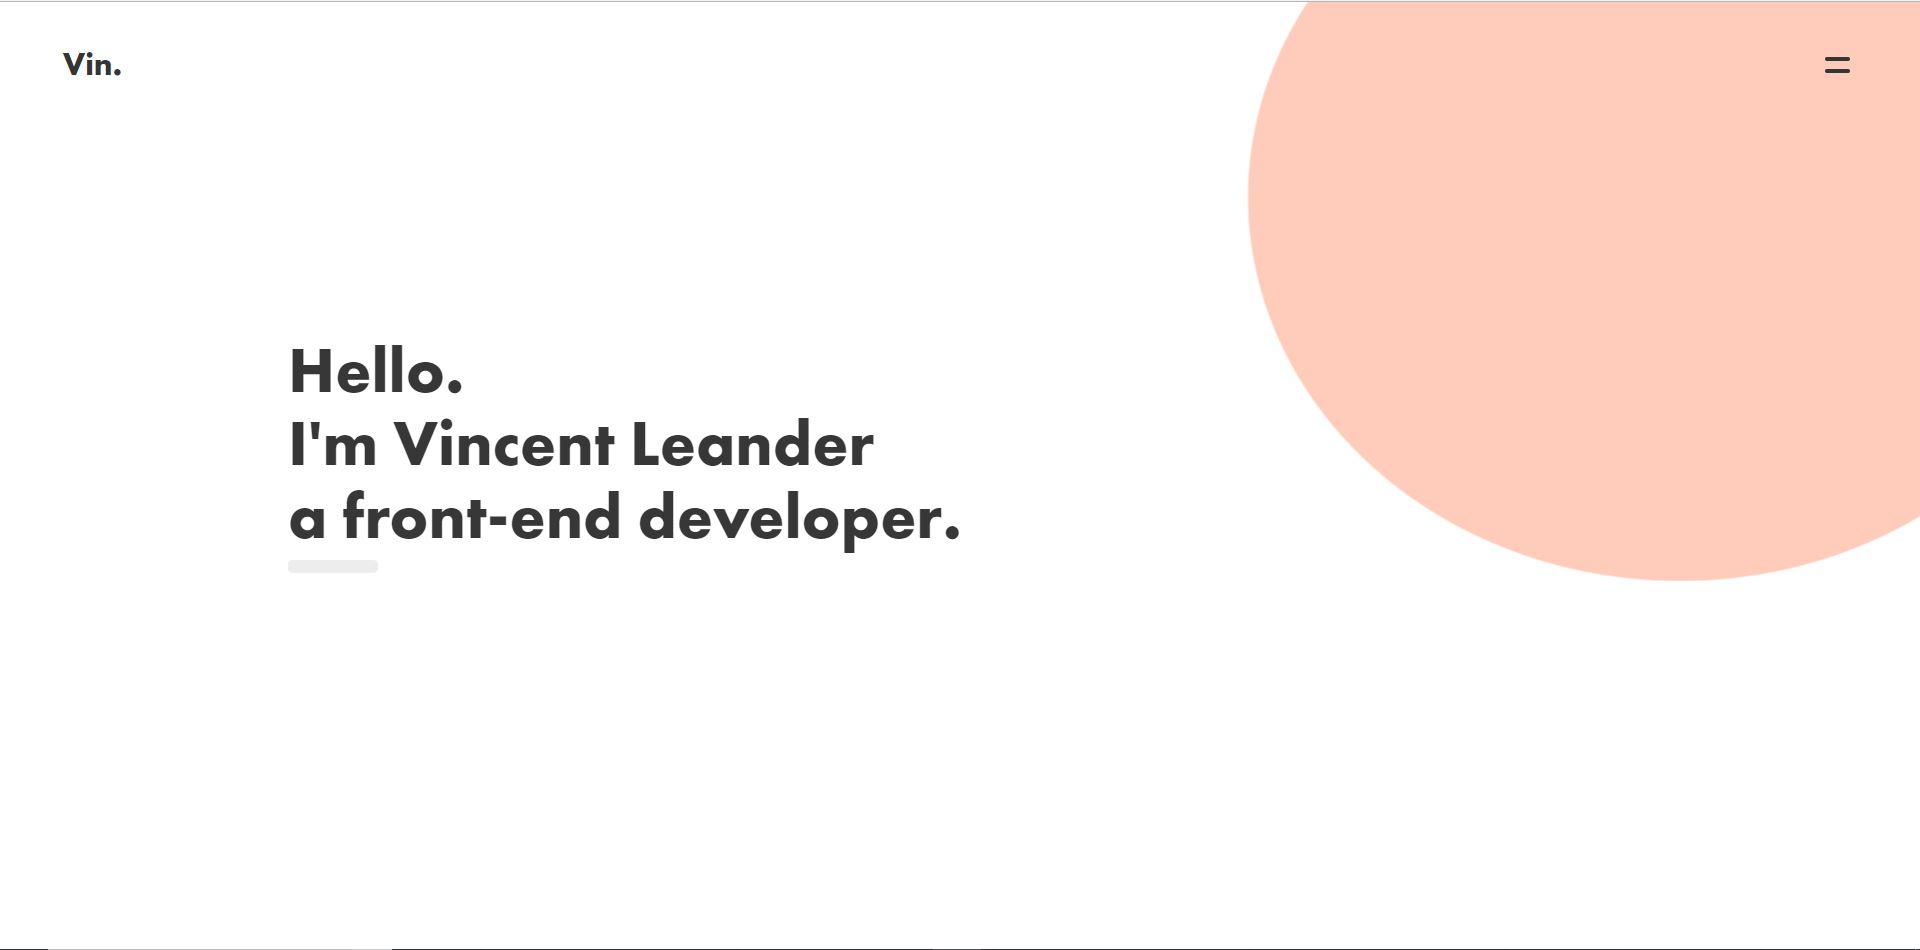
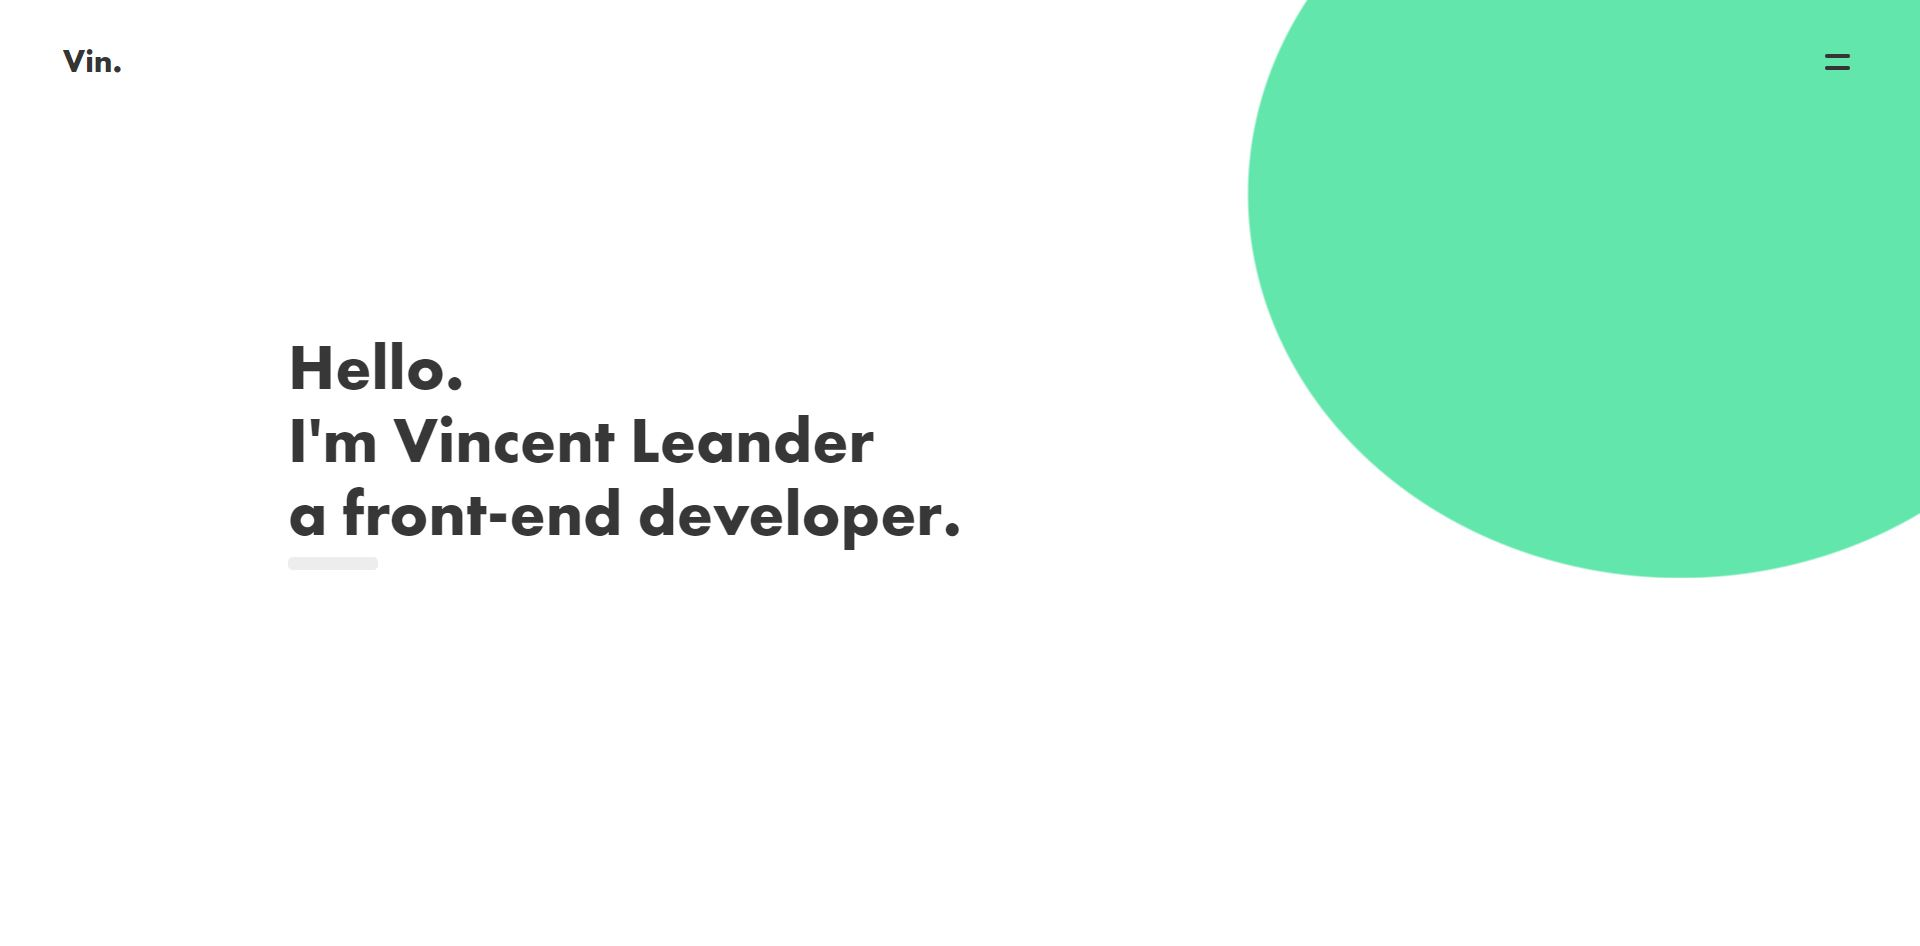
.

diff --git a/src/pages/Work.vue b/src/pages/Work.vue
@@ -12,30 +12,13 @@
                 
                 <div class="project-details">
                     <h2 class="project-details__name">TV-Maze Search</h2>
-                    <p>Bacon ipsum dolor amet shank cupim ribeye, corned beef meatball ham hock frankfurter hamburger spare ribs sausage andouille ground round.</p>
-                    <!--
-                    -->
-                    <div class="d-flex a-center">
-                        <div class="project-details__icon-tech d-flex j-center a-center">
-                            <img src="../assets/icons/html5.svg" alt="HTML 5">
-                        </div>
-                        <div class="project-details__icon-tech d-flex j-center a-center">
-                            <img src="../assets/icons/sass.svg" alt="HTML 5">
-                        </div>
-                        <div class="project-details__icon-tech d-flex j-center a-center">
-                            <img src="../assets/icons/reactjs.svg" alt="HTML 5">
-                        </div>
-                        <div class="project-details__icon-tech d-flex j-center a-center">
-                            <img src="../assets/icons/gulpjs.svg" alt="HTML 5">
-                        </div>
-                        <div class="project-details__icon-tech d-flex j-center a-center">
-                            <img src="../assets/icons/webpack.svg" alt="HTML 5">
-                        </div>
-                    </div>
+                    <p>This is basically a search engine for TV Series that search through TVMaze's API.</p>
+                    <p>Built using: <br>
+                    React, Redux, SASS.</p>
                     
                     <div class="d-flex">
-                        <a class="btn btn--main project-details__btn" href="#">Visit</a>
-                        <a class="btn btn--secondary project-details__btn" href="#">View Code</a>
+                        <a class="btn btn--main project-details__btn" href="https://tvmaze-search.surge.sh/" target="_blank">Visit</a>
+                        <a class="btn btn--secondary project-details__btn" href="https://github.com/vincentleandr/react-redux-tvmaze" target="_blank">View Code</a>
                     </div>
 
                 </div>
@@ -55,32 +38,113 @@
                 
                 <div class="project-details">
                     <h2 class="project-details__name">My Scholarships</h2>
-                    <p>Bacon ipsum dolor amet shank cupim ribeye, corned beef meatball ham hock frankfurter hamburger spare ribs sausage andouille ground round.</p>
-                    <!--
-                    -->
-                    <div class="d-flex a-center">
-                        <div class="project-details__icon-tech d-flex j-center a-center">
-                            <img src="../assets/icons/html5.svg" alt="HTML 5">
-                        </div>
-                        <div class="project-details__icon-tech d-flex j-center a-center">
-                            <img src="../assets/icons/sass.svg" alt="HTML 5">
-                        </div>
-                        <div class="project-details__icon-tech d-flex j-center a-center">
-                            <img src="../assets/icons/reactjs.svg" alt="HTML 5">
-                        </div>
-                        <div class="project-details__icon-tech d-flex j-center a-center">
-                            <img src="../assets/icons/gulpjs.svg" alt="HTML 5">
-                        </div>
-                        <div class="project-details__icon-tech d-flex j-center a-center">
-                            <img src="../assets/icons/webpack.svg" alt="HTML 5">
-                        </div>
-                    </div>
+                    <p>A collaboration project with a friend for our thesis. The main purpose is to make the process of searching and applying for scholarships easier.</p>
+                    <p>Built using: <br>
+                    HTML, CSS, Bootstrap, Javascript, JQuery.</p>
                     
                     <div class="d-flex">
-                        <a class="btn btn--main project-details__btn" href="#">Visit</a>
-                        <a class="btn btn--secondary project-details__btn" href="#">View Code</a>
+                        <a class="btn btn--secondary project-details__btn" href="https://github.com/vincentleandr/ThesisProject" target="_blank">View Code</a>
                     </div>
 
+                </div>
+
+            </div>
+        </parallax-container>
+
+        <parallax-container class="d-flex d-flex--col works-page">
+            <div class="d-flex j-sp-between">
+                <parallax-element class="mac-border mac-border--bg-3" :parallaxStrength="-15" :type="'translation'">
+                    <div class="mac-border__top d-flex a-center">
+                        <div class="mac-border__btn mac-border__btn--red"></div>
+                        <div class="mac-border__btn mac-border__btn--orange"></div>
+                        <div class="mac-border__btn mac-border__btn--green"></div>
+                    </div>
+                </parallax-element>
+                
+                <div class="project-details">
+                    <h2 class="project-details__name">Personal Web</h2>
+                    <p>I consider this personal web as one of my project. This personal web is also my portfolio to showcase my works.</p>
+                    <p>Built using: <br>
+                    Vue, SASS, Webpack.</p>
+                    
+                    <div class="d-flex">
+                        <a class="btn btn--secondary project-details__btn" href="https://github.com/vincentleandr/vue-portfolio" target="_blank">View Code</a>
+                    </div>
+                </div>
+
+            </div>
+        </parallax-container>
+
+        <parallax-container class="d-flex d-flex--col works-page">
+            <div class="d-flex j-sp-between">
+                <parallax-element class="mac-border mac-border--bg-4" :parallaxStrength="-15" :type="'translation'">
+                    <div class="mac-border__top d-flex a-center">
+                        <div class="mac-border__btn mac-border__btn--red"></div>
+                        <div class="mac-border__btn mac-border__btn--orange"></div>
+                        <div class="mac-border__btn mac-border__btn--green"></div>
+                    </div>
+                </parallax-element>
+                
+                <div class="project-details">
+                    <h2 class="project-details__name">Mini Quiz</h2>
+                    <p>A fun mini quiz based on the famous hit series Game of Thrones. Fairly easy if you're a big fan of the show !</p>
+                    <p>Built using: <br>
+                    HTML, CSS, Javascript, JQuery.</p>
+                    
+                    <div class="d-flex">
+                        <a class="btn btn--main project-details__btn" href="https://gotminiquiz.surge.sh/" target="_blank">Visit</a>
+                        <a class="btn btn--secondary project-details__btn" href="https://github.com/vincentleandr/Mini-Quiz" target="_blank">View Code</a>
+                    </div>
+                </div>
+
+            </div>
+        </parallax-container>
+
+        <parallax-container class="d-flex d-flex--col works-page">
+            <div class="d-flex j-sp-between">
+                <parallax-element class="mac-border mac-border--bg-5" :parallaxStrength="-15" :type="'translation'">
+                    <div class="mac-border__top d-flex a-center">
+                        <div class="mac-border__btn mac-border__btn--red"></div>
+                        <div class="mac-border__btn mac-border__btn--orange"></div>
+                        <div class="mac-border__btn mac-border__btn--green"></div>
+                    </div>
+                </parallax-element>
+                
+                <div class="project-details">
+                    <h2 class="project-details__name">Get It Done</h2>
+                    <p>A very simple to-do list web application with minimal design.</p>
+                    <p>Built using: <br>
+                    HTML, CSS, Javascript, JQuery.</p>
+                    
+                    <div class="d-flex">
+                        <a class="btn btn--main project-details__btn" href="https://get-it-done.surge.sh/" target="_blank">Visit</a>
+                        <a class="btn btn--secondary project-details__btn" href="https://github.com/vincentleandr/Get-It-Done" target="_blank">View Code</a>
+                    </div>
+                </div>
+
+            </div>
+        </parallax-container>
+
+        <parallax-container class="d-flex d-flex--col works-page">
+            <div class="d-flex j-sp-between">
+                <parallax-element class="mac-border mac-border--bg-6" :parallaxStrength="-15" :type="'translation'">
+                    <div class="mac-border__top d-flex a-center">
+                        <div class="mac-border__btn mac-border__btn--red"></div>
+                        <div class="mac-border__btn mac-border__btn--orange"></div>
+                        <div class="mac-border__btn mac-border__btn--green"></div>
+                    </div>
+                </parallax-element>
+                
+                <div class="project-details">
+                    <h2 class="project-details__name">Social Card</h2>
+                    <p>My first React project. I learned the basic concept of React from this project like props, state, components, etc. This is also the first time I implemented SASS on a project.</p>
+                    <p>Built using: <br>
+                    React, SASS.</p>
+                    
+                    <div class="d-flex">
+                        <a class="btn btn--main project-details__btn" href="https://romeow-social-card.surge.sh/" target="_blank">Visit</a>
+                        <a class="btn btn--secondary project-details__btn" href="https://github.com/vincentleandr/Social-Card" target="_blank">View Code</a>
+                    </div>
                 </div>
 
             </div>

diff --git a/src/styles/pages/_works.scss b/src/styles/pages/_works.scss
@@ -1,5 +1,9 @@
 .works-page {
-	margin-top: 155px;
+	margin-bottom: 30vh;
+
+	&:first-child {
+		margin-top: 155px;
+	}
 }
 
 .mac-border {
@@ -43,6 +47,22 @@
 		background: url('../assets/images/project-2.jpg') no-repeat center;
 		background-size: cover;
 	}
+	&--bg-3 {
+		background: url('../assets/images/project-3.jpg') no-repeat center;
+		background-size: cover;
+	}
+	&--bg-4 {
+		background: url('../assets/images/project-4.jpg') no-repeat center 30px;
+		background-size: cover;
+	}
+	&--bg-5 {
+		background: url('../assets/images/project-5.jpg') no-repeat center 30px;
+		background-size: cover;
+	}
+	&--bg-6 {
+		background: url('../assets/images/project-6.jpg') no-repeat center 30px;
+		background-size: cover;
+	}
 }
 
 .project-details {
@@ -50,12 +70,6 @@
 
 	&__name {
 		margin-top: 0;
-	}
-
-	&__icon-tech {
-		width: 1.8em;
-		height: 1.8em;
-		margin: 15px 15px 15px 0;
 	}
 
 	&__btn {

diff --git a/src/pages/Contact.vue b/src/pages/Contact.vue
@@ -16,7 +16,7 @@
                     <p>You can also find me on other platform like:</p>
                     <div class="contact-info__det d-flex">
                         <a class="menu-social__option contact-info__link" href="https://github.com/vincentleandr" target="_blank"><i class="fa fa-github"></i></a>
-                        <a class="menu-social__option contact-info__link" href="" target="_blank"><i class="fa fa-linkedin"></i></a>
+                        <a class="menu-social__option contact-info__link" href="https://www.linkedin.com/in/vincent-leander" target="_blank"><i class="fa fa-linkedin"></i></a>
                     </div>
                 </div>
             </div>

diff --git a/src/pages/About.vue b/src/pages/About.vue
@@ -29,7 +29,7 @@
         <div class="about-page d-flex j-sp-between">
             <div class="about-page__section--fw d-flex d-flex--col">
                 <h2 class="about-page__title">Skill Sets</h2>
-                <div class="skill-sets d-flex">
+                <div class="skill-sets d-flex j-center">
                     <div class="skill-sets__icon d-flex j-center">
                         <img src="../assets/icons/html5.svg" alt="HTML 5">
                         <span class="skill-sets__name">HTML 5</span>

diff --git a/src/styles/base/_base.scss b/src/styles/base/_base.scss
@@ -75,13 +75,15 @@ img {
 	text-transform: uppercase;
 	text-align: center;
 
-	&--main {
+	&--main,
+	&--main:visited {
 		border-color: $blackBg;
 		background-color: $blackBg;
 		color: $white;
 	}
 
-	&--secondary {
+	&--secondary,
+	&--secondary:visited {
 		border-color: $blackBg;
 		background-color: transparent;
 		color: $blackFont;
@@ -89,7 +91,7 @@ img {
 }
 
 .circle-bg {
-	background-color: $pinkBg;
+	background-color: $greenBg;
 	position: absolute;
 	top: -20vh;
     right: -10vw;

diff --git a/src/styles/base/_colors.scss b/src/styles/base/_colors.scss
@@ -9,7 +9,3 @@ $white: #ffffff;
 ===================================== */
 $blackBg: #232427;
 $greenBg: #62E6AC;
-$yellowBg: #FBE76C;
-$blueBg: #A0C2D8;
-$pinkBg: #FFCCBB;
-$grayPinkBg: #C6BABA;
